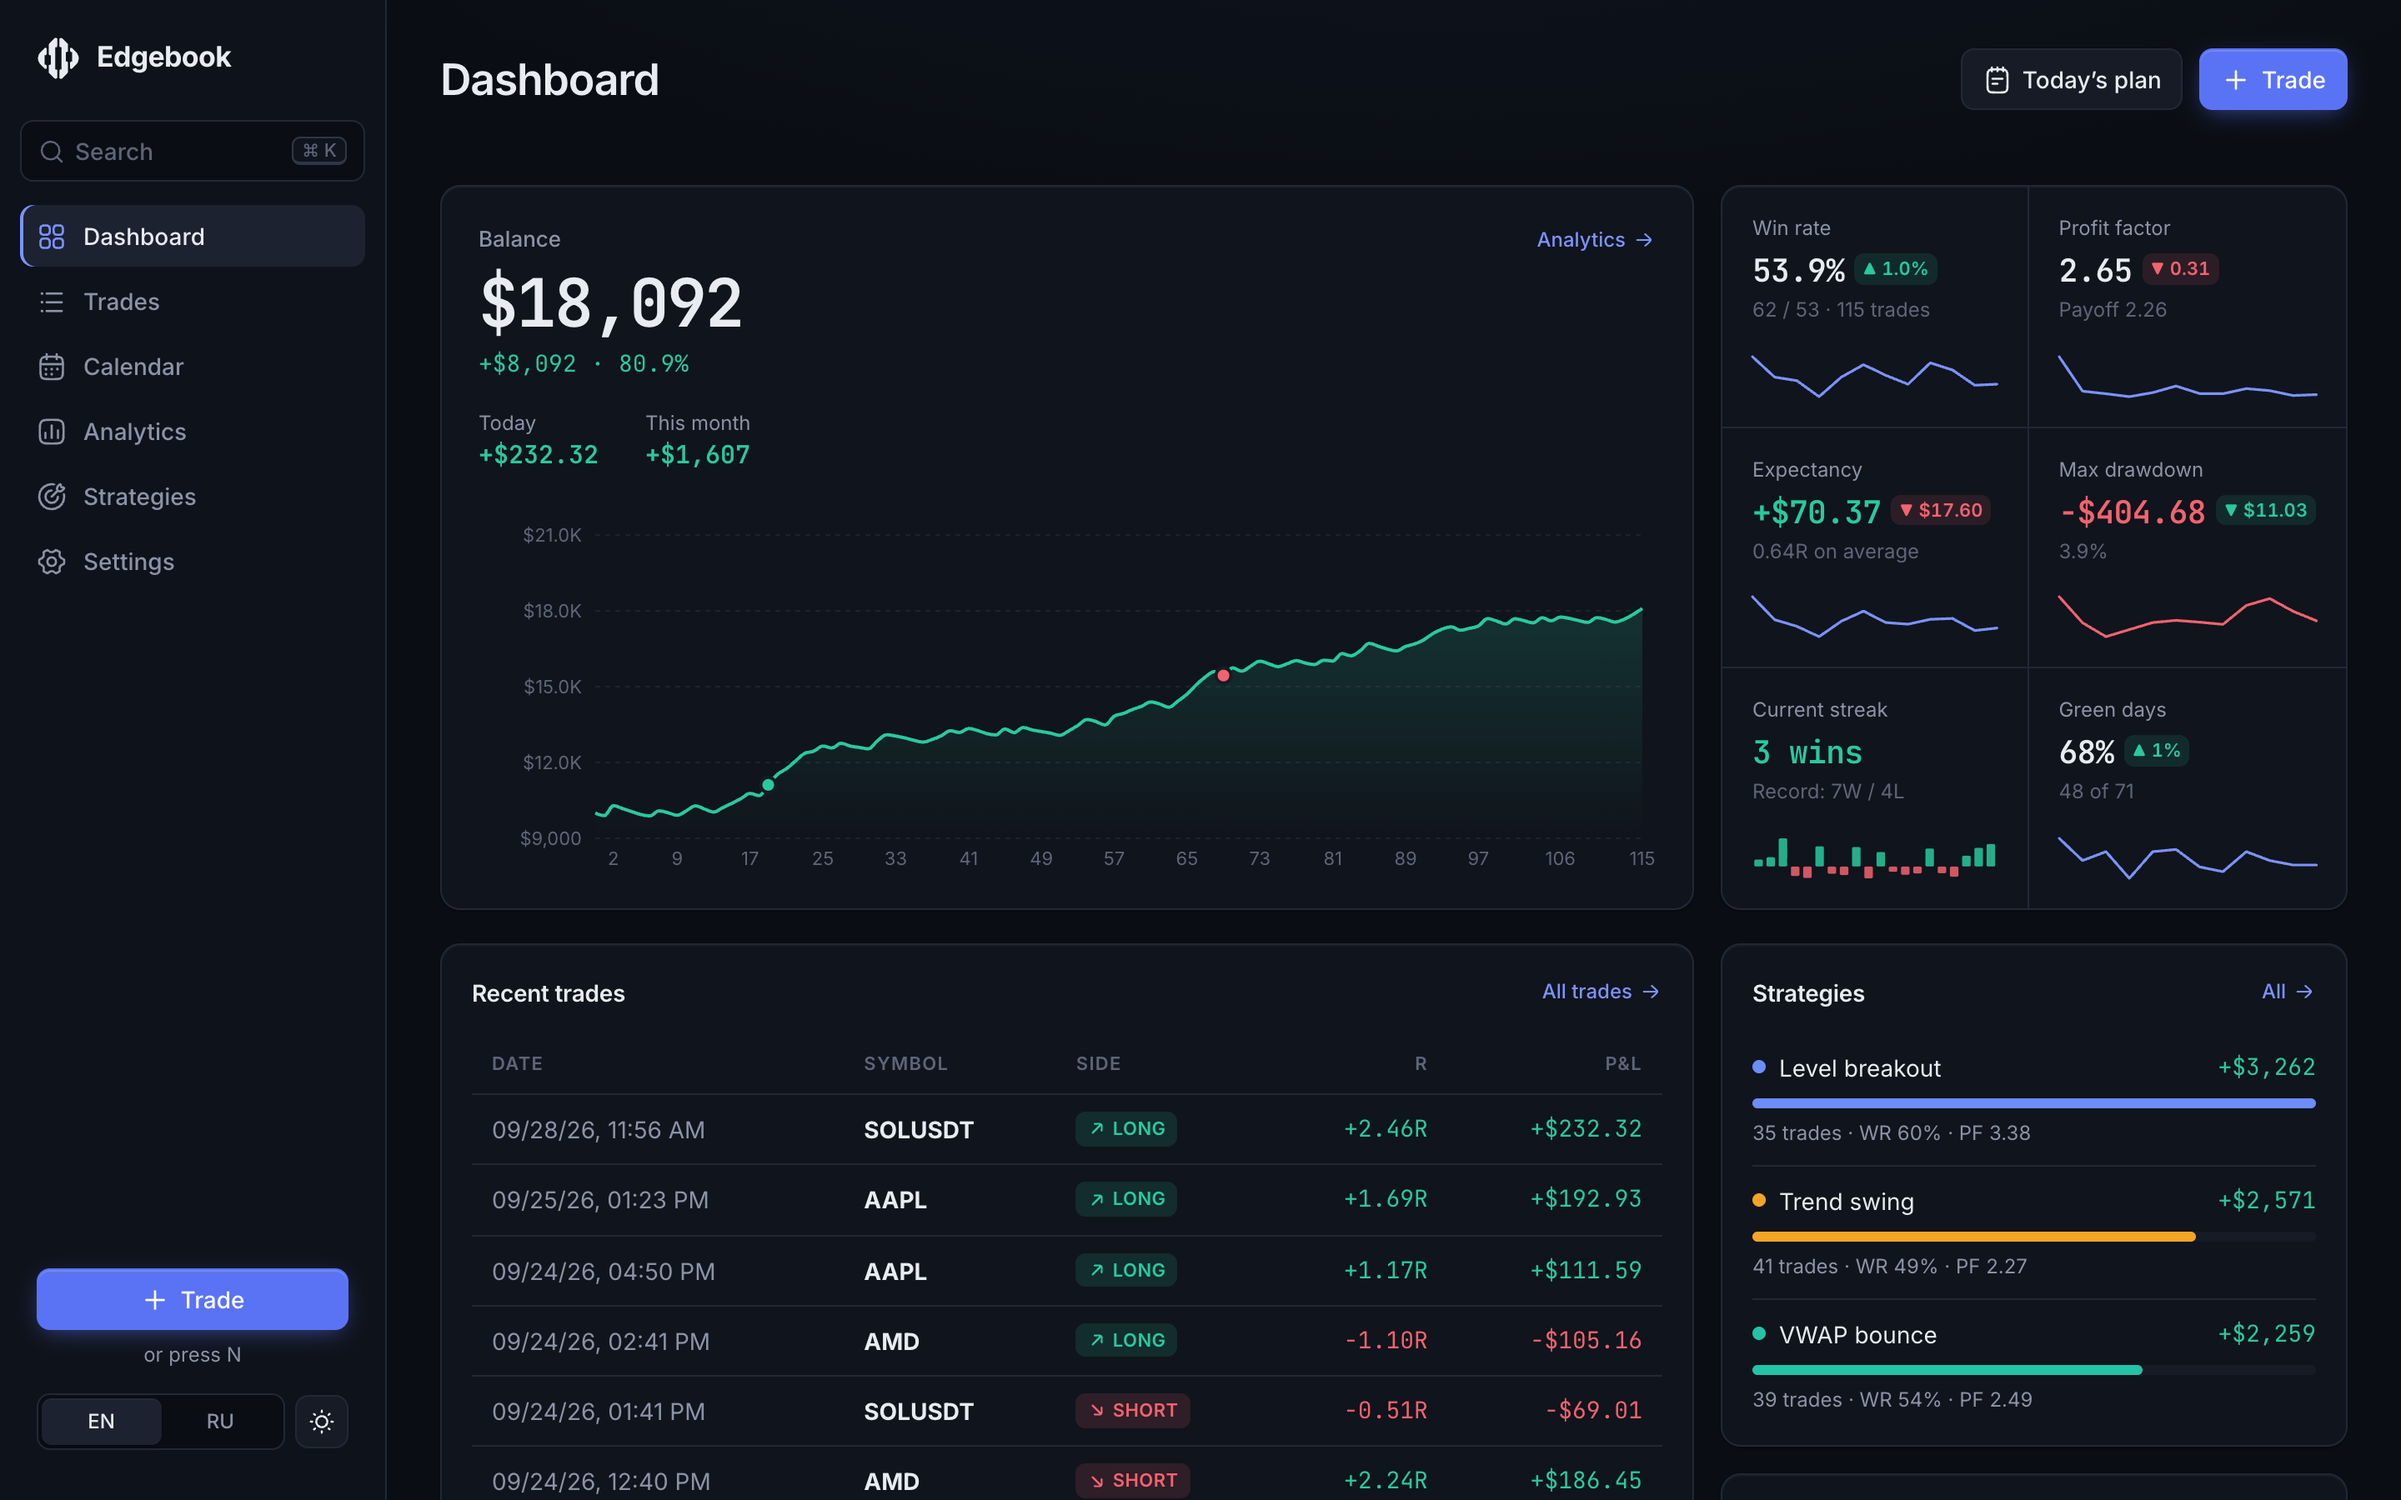
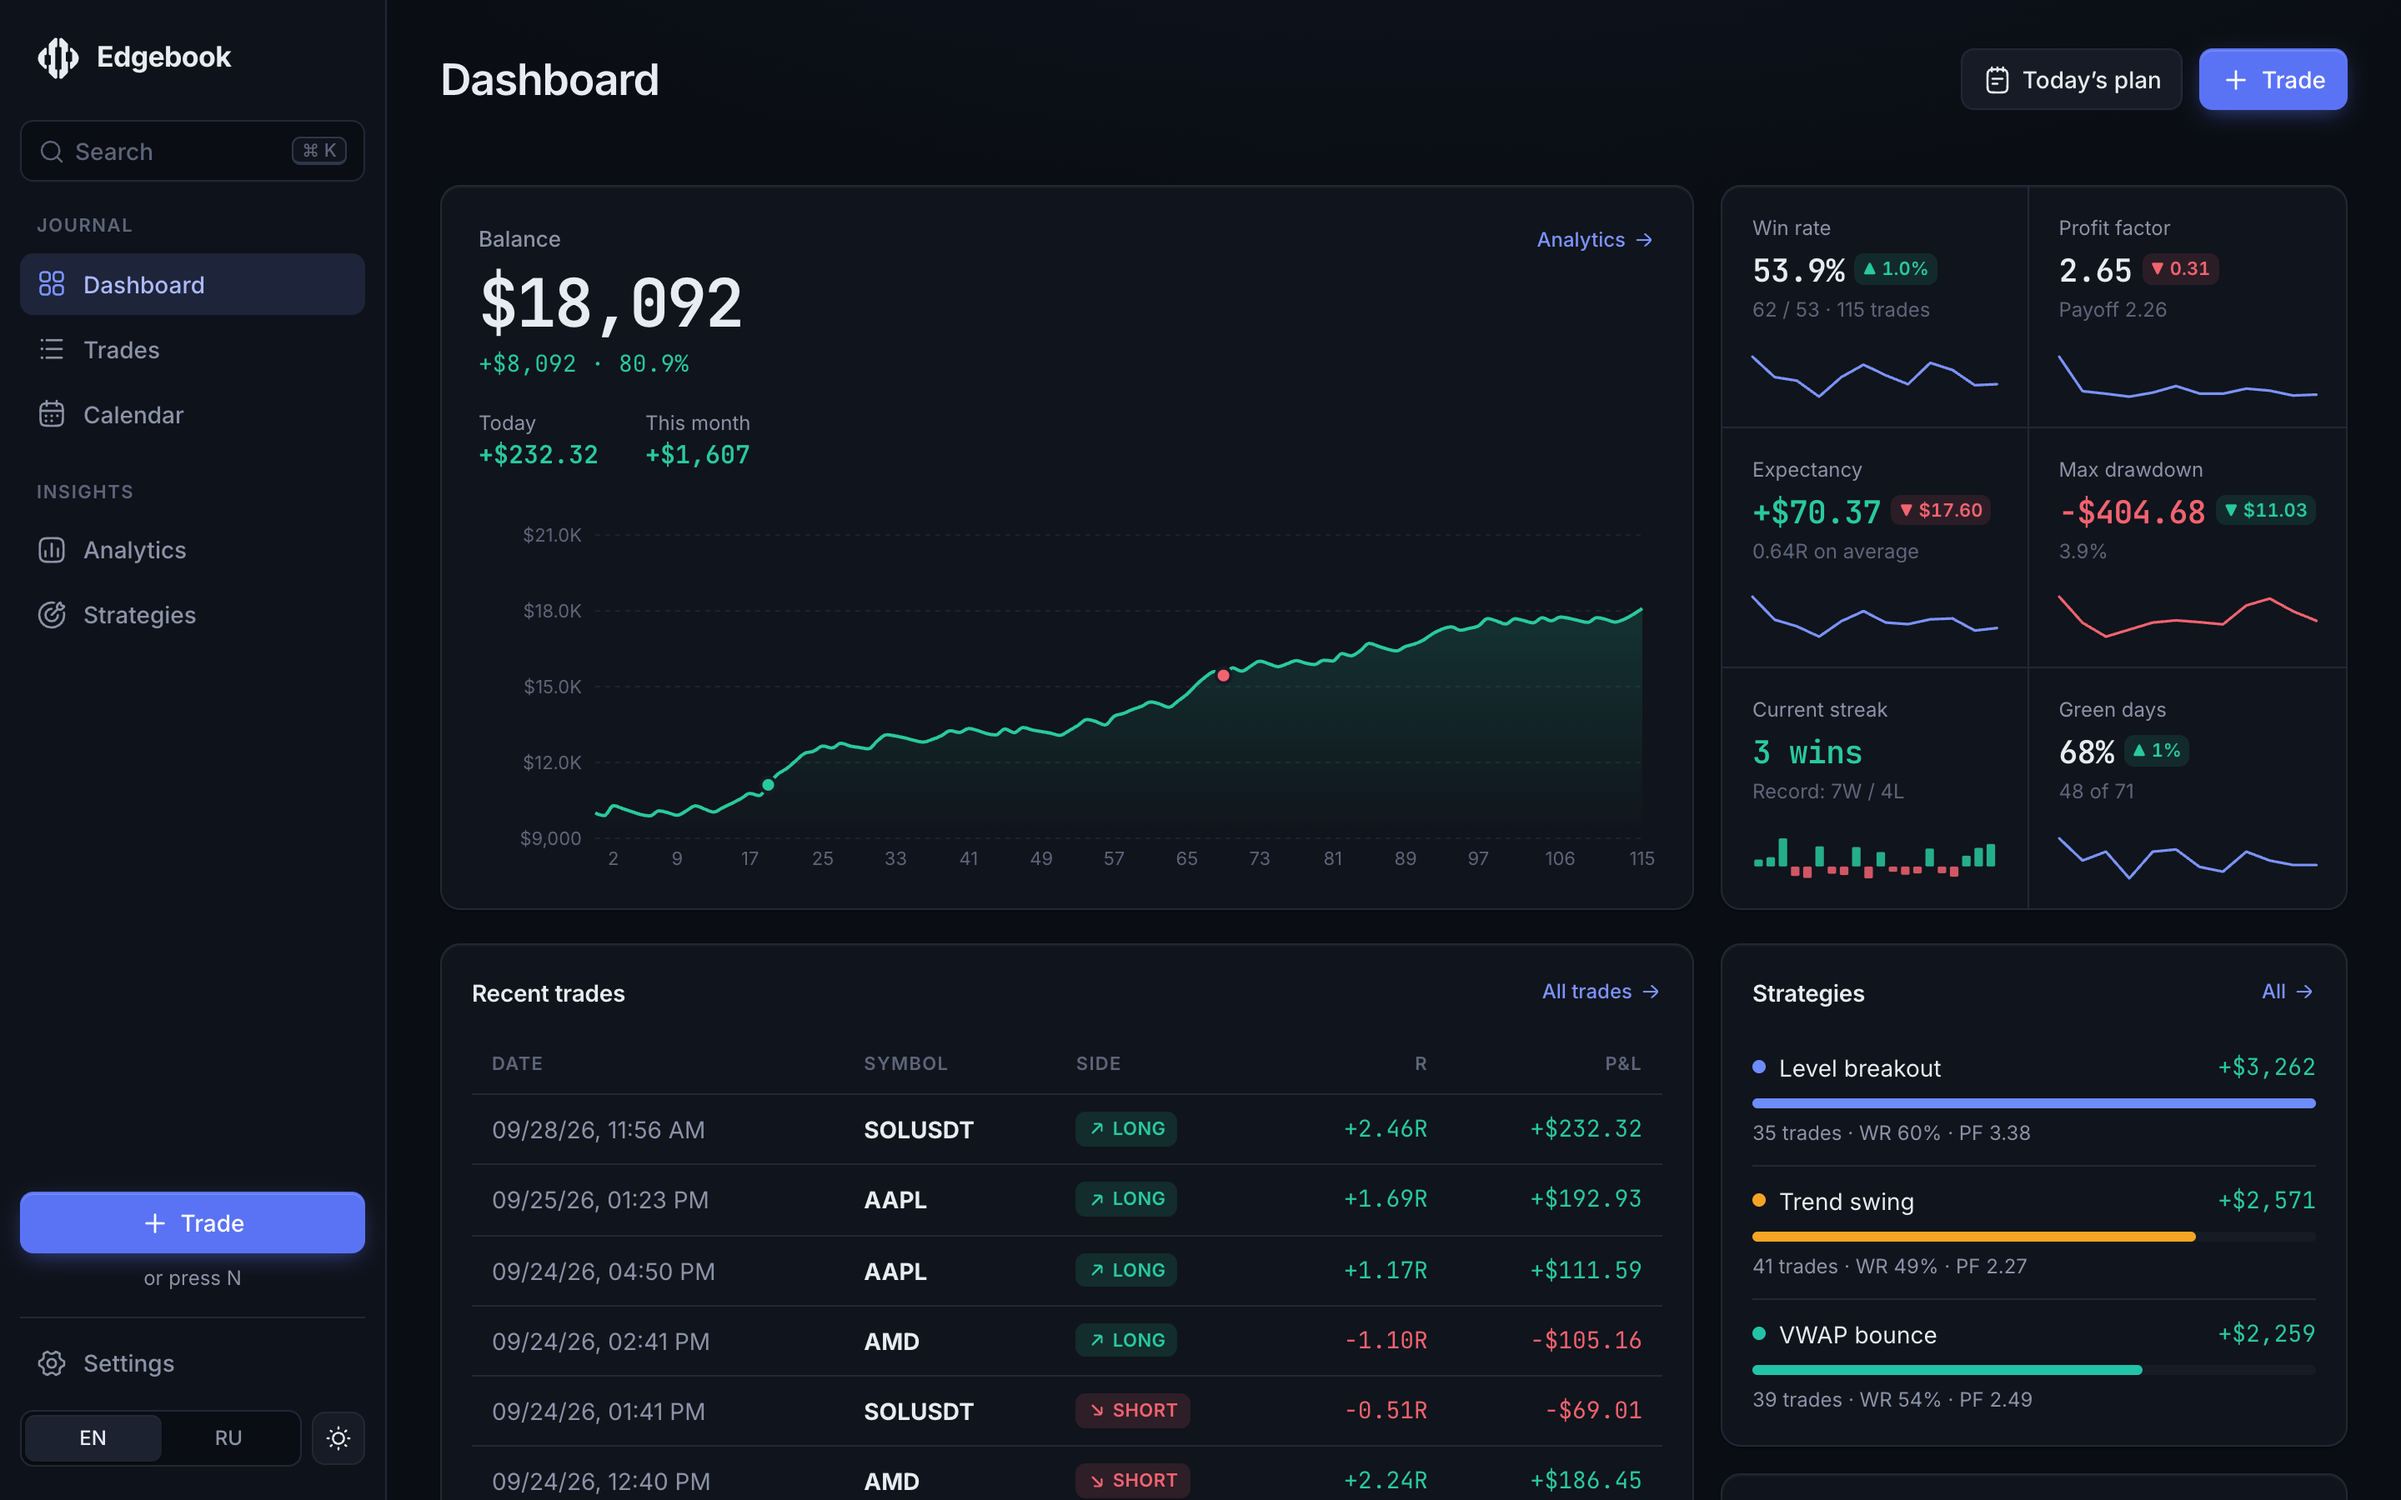
Restyle navigation: soft accent pill and grouped sections
- Active sidebar item uses a tinted accent pill instead of the edge bar
- Sections grouped into Journal and Insights; Settings moves to the
  sidebar footer next to language and theme
- Mobile tab bar highlights the active tab with a pill behind the icon
- Trade pages keep the Trades section highlighted
- Refresh README screenshots

Changed region(s): [[0.0, 0.7778, 0.1562, 0.9644], [0.0, 0.1244, 0.1562, 0.3733], [0.0312, 0.4044, 0.0938, 0.4356]]

diff --git a/src/App.tsx b/src/App.tsx
@@ -6,7 +6,7 @@ import { Icon } from './components/Icon'
 import { Logo } from './components/Logo'
 import { TradeModalHost, useTradeModal } from './components/TradeTable'
 import { useResolvedTheme } from './lib/theme'
-import { NAV } from './nav'
+import { NAV, NAV_GROUPS } from './nav'
 import Analytics from './pages/Analytics'
 import CalendarPage from './pages/Calendar'
 import Dashboard from './pages/Dashboard'
@@ -42,6 +42,37 @@ function useHydrated() {
   const [ok, setOk] = useState(useStore.persist.hasHydrated())
   useEffect(() => useStore.persist.onFinishHydration(() => setOk(true)), [])
   return ok
+}
+
+/** A trade page belongs to the Trades section. */
+function useSectionActive() {
+  const { pathname } = useLocation()
+  return (to: string, isActive: boolean) => isActive || (to === '/trades' && pathname.startsWith('/trade/'))
+}
+
+function SideLink({ item }: { item: (typeof NAV)[number] }) {
+  const t = useT()
+  const active = useSectionActive()
+  return (
+    <NavLink to={item.to} end className={({ isActive }) => `nav-link ${active(item.to, isActive) ? 'active' : ''}`}>
+      <Icon icon={item.icon} />{t.nav[item.key]}
+    </NavLink>
+  )
+}
+
+function TabBar() {
+  const t = useT()
+  const active = useSectionActive()
+  return (
+    <nav className="tabbar">
+      {NAV.map((n) => (
+        <NavLink key={n.to} to={n.to} end className={({ isActive }) => `tab-link ${active(n.to, isActive) ? 'active' : ''}`}>
+          <span className="tab-icon"><Icon icon={n.icon} size={20} /></span>
+          <span className="tab-label">{t.nav[n.key]}</span>
+        </NavLink>
+      ))}
+    </nav>
+  )
 }
 
 function ThemeButton() {
@@ -108,15 +139,18 @@ export default function App() {
             <span>{t.nav.search}</span>
             <kbd>{isMac ? '⌘' : 'Ctrl'} K</kbd>
           </button>
-          {NAV.map((n) => (
-            <NavLink key={n.to} to={n.to} end className={({ isActive }) => `nav-link ${isActive ? 'active' : ''}`}>
-              <Icon icon={n.icon} />{t.nav[n.key]}
-            </NavLink>
+          {NAV_GROUPS.map((g) => (
+            <div key={g} className="nav-section">
+              <div className="nav-group">{t.nav.groups[g]}</div>
+              {NAV.filter((n) => n.group === g).map((n) => <SideLink key={n.to} item={n} />)}
+            </div>
           ))}
           <div className="sidebar-foot">
             <button className="primary" style={{ width: '100%', justifyContent: 'center' }} onClick={() => show()}><Icon icon={Add01Icon} />{t.nav.newTrade}</button>
             <div className="hint" style={{ textAlign: 'center', marginTop: 6 }}>{t.nav.hotkey}</div>
-            <div className="row" style={{ marginTop: 14, gap: 6, flexWrap: 'nowrap' }}>
+            <div className="sidebar-sep" />
+            {NAV.filter((n) => n.group === 'footer').map((n) => <SideLink key={n.to} item={n} />)}
+            <div className="row" style={{ marginTop: 10, gap: 6, flexWrap: 'nowrap' }}>
               <div className="seg lang-switch">
                 {LANGS.map((l) => (
                   <button key={l.value} className={lang === l.value ? 'on' : ''} onClick={() => setSettings({ lang: l.value })}>{l.label}</button>
@@ -131,14 +165,7 @@ export default function App() {
           <Pages />
         </main>
 
-        <nav className="tabbar">
-          {NAV.map((n) => (
-            <NavLink key={n.to} to={n.to} end className={({ isActive }) => `tab-link ${isActive ? 'active' : ''}`}>
-              <Icon icon={n.icon} size={20} />
-              <span>{t.nav[n.key]}</span>
-            </NavLink>
-          ))}
-        </nav>
+        <TabBar />
       </div>
       <TradeModalHost />
       <CommandPalette />

diff --git a/src/index.css b/src/index.css
@@ -91,15 +91,23 @@ h3 { font-size: 14px; }
   padding: 20px 12px; display: flex; flex-direction: column; gap: 2px;
 }
 .brand { font-weight: 700; font-size: 17px; letter-spacing: -.02em; padding: 2px 10px 22px; display: flex; gap: 10px; align-items: center; }
+.nav-section { display: flex; flex-direction: column; gap: 2px; margin-bottom: 14px; }
+.nav-group { font-size: 11px; font-weight: 600; letter-spacing: .07em; text-transform: uppercase; color: var(--faint); padding: 4px 10px 6px; }
 .nav-link {
   display: flex; align-items: center; gap: 10px;
   padding: 8px 10px; border-radius: var(--radius-sm); color: var(--muted); font-weight: 500;
   transition: background .15s var(--ease), color .15s var(--ease);
 }
 .nav-link:hover { background: var(--panel-2); color: var(--text); }
-.nav-link.active { background: var(--panel-3); color: var(--text); box-shadow: inset 2px 0 0 var(--accent); }
+/* soft accent pill: tinted fill, text blended toward the accent */
+.nav-link.active {
+  background: color-mix(in srgb, var(--accent) 14%, transparent);
+  color: color-mix(in srgb, var(--accent) 55%, var(--text));
+}
+.nav-link.active:hover { background: color-mix(in srgb, var(--accent) 18%, transparent); }
 .nav-link.active svg { color: var(--accent); }
-.sidebar-foot { margin-top: auto; padding: 10px; }
+.sidebar-foot { margin-top: auto; padding-top: 10px; }
+.sidebar-sep { height: 1px; background: var(--border); margin: 14px 0 8px; }
 
 .main { padding: 28px 32px 64px; min-width: 0; max-width: 1480px; width: 100%; }
 .page-head { display: flex; align-items: center; justify-content: space-between; gap: 16px; margin-bottom: 24px; flex-wrap: wrap; }
@@ -405,11 +413,13 @@ kbd {
   background: color-mix(in srgb, var(--panel) 88%, transparent); backdrop-filter: blur(14px); border-top: 1px solid var(--border);
 }
 .tab-link {
-  display: flex; flex-direction: column; align-items: center; gap: 3px; padding: 4px 2px; border-radius: 8px;
+  display: flex; flex-direction: column; align-items: center; gap: 2px; padding: 4px 2px; border-radius: 8px;
   color: var(--faint); font-size: 10px; font-weight: 500; min-width: 0;
 }
-.tab-link span { max-width: 100%; overflow: hidden; text-overflow: ellipsis; white-space: nowrap; }
-.tab-link.active { color: var(--accent); }
+.tab-label { max-width: 100%; overflow: hidden; text-overflow: ellipsis; white-space: nowrap; }
+.tab-icon { display: flex; align-items: center; justify-content: center; width: 44px; height: 28px; border-radius: 999px; transition: background .2s var(--ease); }
+.tab-link.active { color: color-mix(in srgb, var(--accent) 55%, var(--text)); }
+.tab-link.active .tab-icon { background: color-mix(in srgb, var(--accent) 16%, transparent); color: var(--accent); }
 
 /* ---------- command palette ---------- */
 .palette-overlay { align-items: flex-start; padding-top: 12vh; }

diff --git a/src/nav.ts b/src/nav.ts
@@ -2,12 +2,15 @@ import {
   Analytics01Icon, Calendar03Icon, DashboardSquare01Icon, LeftToRightListBulletIcon, Settings02Icon, Target02Icon,
 } from '@hugeicons/core-free-icons'
 
-/** App sections, shared by the sidebar, the mobile tab bar and the command palette. */
+/** App sections, shared by the sidebar, the mobile tab bar and the command palette.
+ * `group` places the item in the sidebar; settings live in the sidebar footer instead. */
 export const NAV = [
-  { to: '/', icon: DashboardSquare01Icon, key: 'dashboard' },
-  { to: '/trades', icon: LeftToRightListBulletIcon, key: 'trades' },
-  { to: '/calendar', icon: Calendar03Icon, key: 'calendar' },
-  { to: '/analytics', icon: Analytics01Icon, key: 'analytics' },
-  { to: '/strategies', icon: Target02Icon, key: 'strategies' },
-  { to: '/settings', icon: Settings02Icon, key: 'settings' },
+  { to: '/', icon: DashboardSquare01Icon, key: 'dashboard', group: 'journal' },
+  { to: '/trades', icon: LeftToRightListBulletIcon, key: 'trades', group: 'journal' },
+  { to: '/calendar', icon: Calendar03Icon, key: 'calendar', group: 'journal' },
+  { to: '/analytics', icon: Analytics01Icon, key: 'analytics', group: 'insights' },
+  { to: '/strategies', icon: Target02Icon, key: 'strategies', group: 'insights' },
+  { to: '/settings', icon: Settings02Icon, key: 'settings', group: 'footer' },
 ] as const
+
+export const NAV_GROUPS = ['journal', 'insights'] as const

diff --git a/src/i18n/ru.ts b/src/i18n/ru.ts
@@ -23,6 +23,7 @@ export const ru: Dict = {
     newTrade: 'Сделка',
     hotkey: 'или клавиша N',
     search: 'Поиск',
+    groups: { journal: 'Журнал', insights: 'Выводы' },
   },
 
   palette: {

diff --git a/src/i18n/en.ts b/src/i18n/en.ts
@@ -14,6 +14,7 @@ export const en = {
     newTrade: 'Trade',
     hotkey: 'or press N',
     search: 'Search',
+    groups: { journal: 'Journal', insights: 'Insights' },
   },
 
   palette: {
